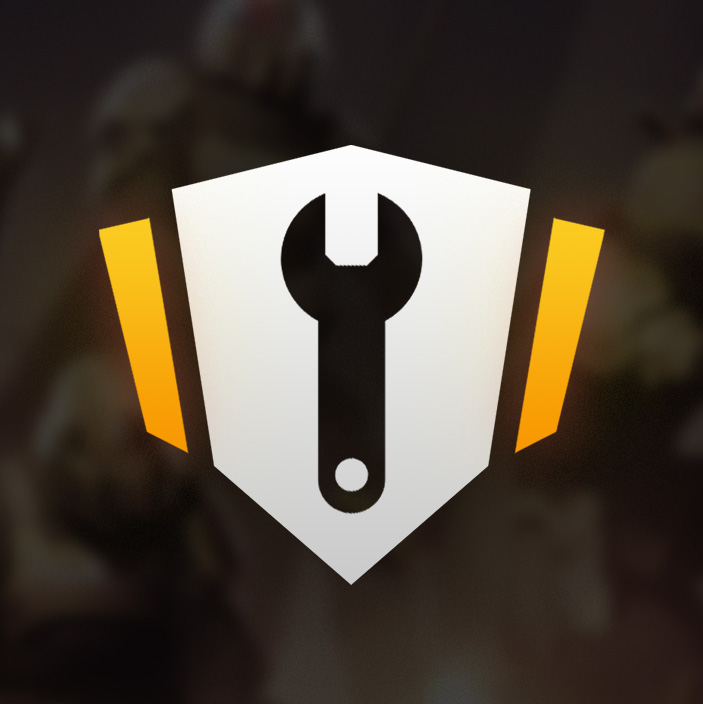
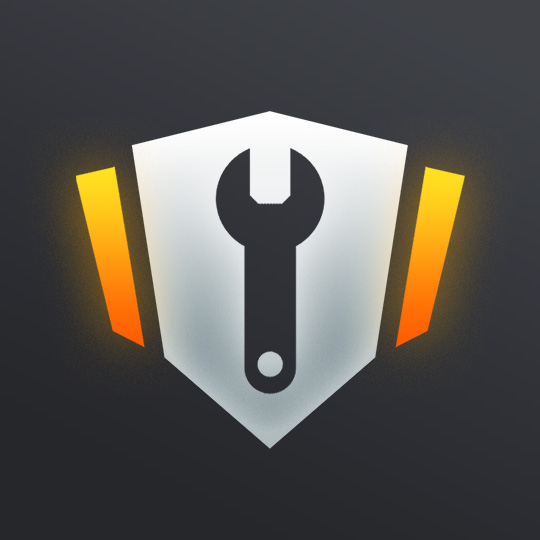
Obsidian API 1.22.1: the new image

diff --git a/REFERENCE.md b/REFERENCE.md
@@ -1561,7 +1561,7 @@ A session mod's hooks, frame functions, effects and edits stop while the lobby i
 
 <!-- Everything below is generated by tools/reference.py from the source. Don't edit it by hand. -->
 
-## Every call (Obsidian API 1.22.0)
+## Every call (Obsidian API 1.22.1)
 
 Each table of `api`, its calls in the order of the source, and the comment above each one. `bot:`, `drone:`, `prop:`, `marker:` and `page:` are methods of what `api.bots.add`, `api.gear.add_drone`, `api.world.prop`, `api.map.marker` and `api.mod_settings.page` answer, and under `api.menu`, of the page a build gets. Where this list and the guide above disagree, this list is right.
 

diff --git a/CHANGELOG.md b/CHANGELOG.md
@@ -2,6 +2,10 @@
 
 New, changed or removed capabilities, one line each, brief and direct. A release's section becomes its release notes.
 
+## 1.22.1
+
+- Changed: a new image beside the mod in Obsidian's mod list.
+
 ## 1.22.0
 
 - New: a custom stratagem's `icon_material` names a material the mod ships in the boot bundle, holding the sub-material `icon`. Every gui that lists `hud/hud` lists it too, the loader's included. Without that material in the deploy, the base's icon.
